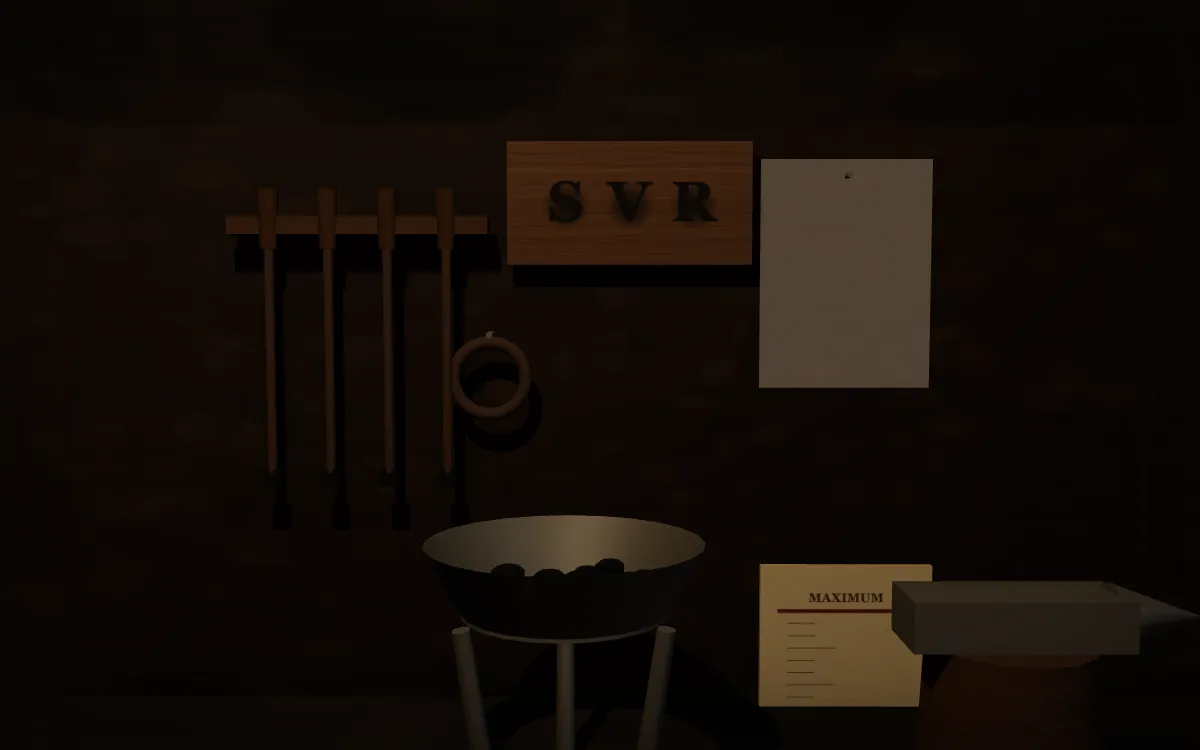
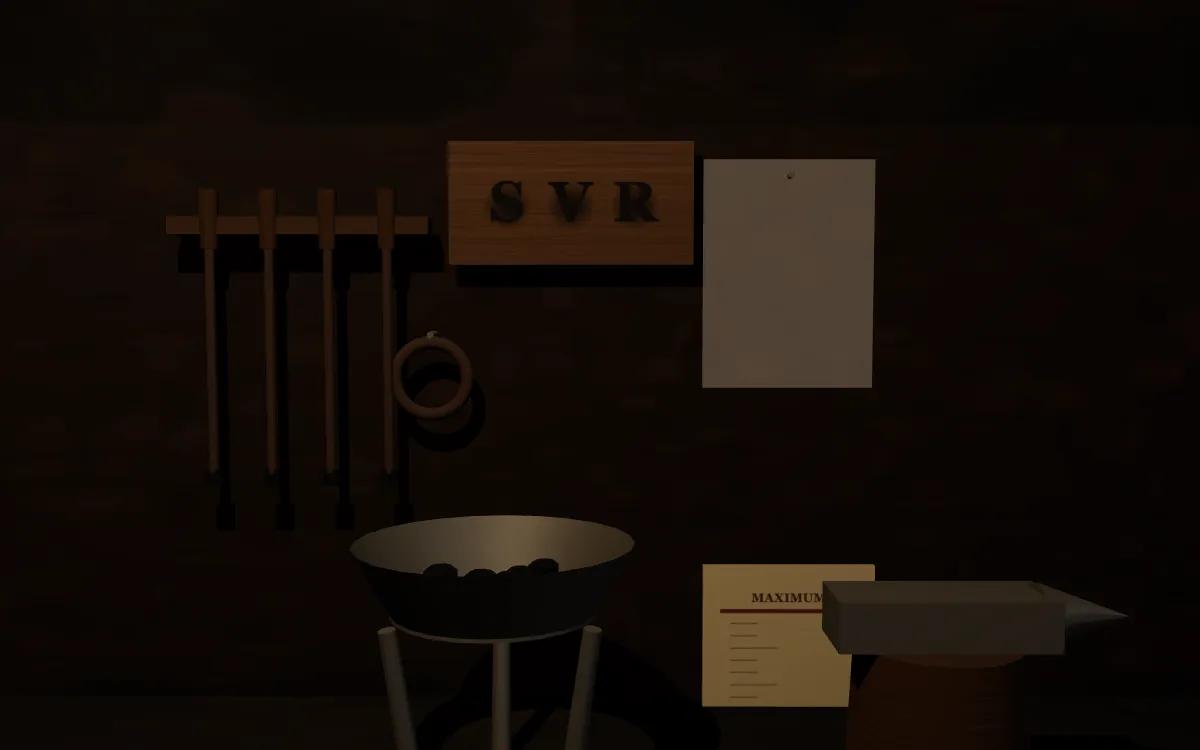
Glossaire : legislation-sanglante réécrite selon la charte, direction artistique « la charrette et le tarif »

diff --git a/glossaire/mondes/legislation-sanglante/essai.html b/glossaire/mondes/legislation-sanglante/essai.html
@@ -1,45 +1,78 @@
-<!-- L'ESSAI - le corps de /glossaire/legislation-sanglante.
-     data-s="8" = huitieme section de Roy (ch. XXVI-XXXIII), dont le
-     chapitre XXVIII porte ce titre. -->
+<!-- L'ESSAI : le corps de /glossaire/legislation-sanglante.
+     Fragment HTML, assemblé par tools/gen-seo.mjs dans le gabarit des pages
+     de notion (avec meta.json pour la tête, l'appareil et le monde).
+     Réécrit en octobre 2026 selon glossaire/mondes/CHARTE.md.
+     data-s="8" = huitième section de Roy (chapitres XXVI à XXXIII), dont le
+     chapitre XXVIII porte ce titre. Chaque data-q est une phrase RELEVÉE dans
+     le texte que la liseuse sert, au caractère près : Roy compose à la
+     française, avec une espace insécable avant le point-virgule et dans les
+     guillemets. Ne rien « corriger ». -->
 
 <section class="nt-sec" data-etape="fait" id="fait">
-<h2>Un décalage, et ce qu'on en fit</h2>
-<p>Le chapitre XXVIII s'ouvre sur un fait de rythme, et tout le reste en découle. L'expropriation des campagnes jeta sur les routes plus d'hommes que les manufactures naissantes n'en pouvaient absorber&nbsp;: <q data-s="8" data-q="La création du prolétariat sans feu ni lieu">La création du prolétariat sans feu ni lieu</q>, écrit Marx, <q data-s="8" data-q="allait nécessairement plus vite que son absorption par les manufactures naissantes">allait nécessairement plus vite que son absorption par les manufactures naissantes</q>. Il en sortit une masse de mendiants, de voleurs et de vagabonds — non par un vice de leur caractère, mais par l'écart entre deux vitesses.</p>
-<p>Ce que fit la loi devant ce décalage est la seule chose qui importe ici, et Marx l'énonce en une phrase qui vaut analyse&nbsp;: <q data-s="8" data-q="La législation les traita en criminels volontaires ; elle supposa qu’il dépendait de leur libre arbitre de continuer à travailler comme par le passé et comme s’il n’était survenu aucun changement dans leur condition">La législation les traita en criminels volontaires ; elle supposa qu'il dépendait de leur libre arbitre de continuer à travailler comme par le passé et comme s'il n'était survenu aucun changement dans leur condition</q>. Le vagabondage est traité comme un refus, alors qu'il est un effet&nbsp;; l'homme sans place est puni de ne pas occuper une place qu'on lui a retirée.</p>
-<p>Marx fait suivre ce constat d'une remarque qui replace le lecteur du dix-neuvième siècle dans la filiation, et qu'il ne faut pas lire comme une flèche mais comme une donnée&nbsp;: <q data-s="8" data-q="Les pères de la classe ouvrière actuelle furent châtiés d’avoir été réduits à l’état de vagabonds et de pauvres">Les pères de la classe ouvrière actuelle furent châtiés d'avoir été réduits à l'état de vagabonds et de pauvres</q>. Ce sont les mêmes gens, à quelques générations près, qui sont expropriés puis punis de l'être, puis employés.</p>
+<h2>Pourquoi la loi s'en prend-elle aux vagabonds à la fin du quinzième siècle&nbsp;?</h2>
+<p class="nt-lead">Parce que l'expropriation des campagnes a jeté sur les routes plus d'hommes que les manufactures ne pouvaient en employer. La loi a traité cet effet comme une faute.</p>
+<p>Le chapitre XXVIII fait suite à celui qui raconte comment les paysans anglais ont perdu leur terre. Marx y part d'un écart entre deux vitesses. D'un côté, les seigneurs licencient leurs suites et les clôtures chassent les cultivateurs&nbsp;; de l'autre, les manufactures naissantes n'embauchent que lentement. <q data-s="8" data-q="La création du prolétariat sans feu ni lieu">La création du prolétariat sans feu ni lieu</q>, écrit-il, <q data-s="8" data-q="allait nécessairement plus vite que son absorption par les manufactures naissantes">allait nécessairement plus vite que son absorption par les manufactures naissantes</q>. Il ajoute une seconde raison, qui tient aux habitudes&nbsp;: des hommes arrachés d'un coup à leur vie ne pouvaient pas se plier du jour au lendemain à la discipline d'un ordre nouveau. Il en sortit des mendiants, des voleurs, des vagabonds.</p>
+<p>Devant ces hommes, la loi aurait pu voir ce qui leur était arrivé. Elle a fait l'inverse, et Marx résume le geste en une phrase&nbsp;:</p>
+<blockquote data-s="8" data-q="La législation les traita en criminels volontaires ; elle supposa qu’il dépendait de leur libre arbitre de continuer à travailler comme par le passé et comme s’il n’était survenu aucun changement dans leur condition"><p>La législation les traita en criminels volontaires&nbsp;; elle supposa qu’il dépendait de leur libre arbitre de continuer à travailler comme par le passé et comme s’il n’était survenu aucun changement dans leur condition.</p></blockquote>
+<p>Le vagabond est puni d'avoir choisi l'errance, alors que l'errance lui a été imposée&nbsp;; on lui reproche de ne pas occuper une place qu'on vient de lui retirer. Marx rappelle aussi de qui il parle. <q data-s="8" data-q="Les pères de la classe ouvrière actuelle furent châtiés d’avoir été réduits à l’état de vagabonds et de pauvres">Les pères de la classe ouvrière actuelle furent châtiés d’avoir été réduits à l’état de vagabonds et de pauvres</q>&nbsp;: les ouvriers des fabriques de 1867 descendent de ces hommes-là. Le nom de la notion vient du titre du chapitre. Roy écrit «&nbsp;législation sanguinaire contre les expropriés&nbsp;», l'allemand dit <i lang="de">Blutgesetzgebung</i>, la législation de sang. Dans l'original allemand, ces pages forment la troisième partie du chapitre 24.</p>
 </section>
 
 <section class="nt-sec" data-etape="distinction" id="distinction">
-<h2>La distinction qui fait le concept&nbsp;: dresser n'est pas punir</h2>
-<p>Ces lois ne sont pas un droit pénal ordinaire, et c'est ce qui les rend intelligibles. Un droit pénal réprime un acte&nbsp;; celui-ci fabrique une disposition. Marx le dit en une formule qui contient tout le chapitre&nbsp;: la population des campagnes, violemment expropriée et réduite au vagabondage, <q data-s="8" data-q="a été rompue à la discipline qu’exige le système du salariat par des lois d’un terrorisme grotesque, par le fouet, la marque au fer rouge, la torture et l’esclavage">a été rompue à la discipline qu'exige le système du salariat par des lois d'un terrorisme grotesque, par le fouet, la marque au fer rouge, la torture et l'esclavage</q>.</p>
-<p>Le mot <i>rompue</i> est celui du dressage, et l'énumération des statuts en donne la progression. Sous Henri&nbsp;VIII, le vagabond robuste est fouetté puis renvoyé à son lieu de naissance pour <q data-s="8" data-q="se remettre au travail">se remettre au travail</q>&nbsp;; à la première récidive on lui coupe la moitié de l'oreille, à la seconde il est traité en félon. Un statut d'Édouard&nbsp;VI, en 1547, <q data-s="8" data-q="ordonne que tout individu réfractaire au travail sera adjugé pour esclave à la personne qui l’aura dénoncé comme truand">ordonne que tout individu réfractaire au travail sera adjugé pour esclave à la personne qui l'aura dénoncé comme truand</q>, avec la lettre marquée au fer sur la joue ou sur la poitrine. Sous Élisabeth, les mendiants sans permis sont marqués à l'oreille <q data-s="8" data-q="si personne ne veut les prendre en service pendant deux ans">si personne ne veut les prendre en service pendant deux ans</q>. Sous Jacques&nbsp;I encore, le coureur de pays rétif est marqué d'un R sur l'épaule gauche — et Marx note la date de l'abrogation, qui n'a rien d'un détail&nbsp;: <q data-s="8" data-q="Ces statuts ne furent abolis qu’en 1714">Ces statuts ne furent abolis qu'en 1714</q>.</p>
-<p>On aperçoit dans ces clauses ce que le pénal seul n'expliquerait pas. La peine est chaque fois indexée sur l'emploi&nbsp;: elle tombe si personne ne veut prendre l'homme à son service, elle s'efface s'il trouve un maître. Ce n'est pas la mendicité qu'on châtie, c'est la disponibilité qu'on impose.</p>
+<h2>Que punissent ces lois, au juste&nbsp;?</h2>
+<p class="nt-lead">Elles punissent l'homme qui n'a pas de maître. La peine tombe quand personne ne veut l'employer et s'efface dès qu'il en trouve un&nbsp;: ces lois dressent au salariat.</p>
+<p>Marx énumère les statuts anglais règne par règne, et la liste a un ordre. Sous Henri&nbsp;VIII, en 1530, les vieillards et les infirmes reçoivent une licence pour mendier. Les vagabonds robustes, eux, sont attachés derrière une charrette et fouettés jusqu'au sang, puis ils doivent jurer de retourner à leur lieu de naissance pour <q data-s="8" data-q="se remettre au travail">se remettre au travail</q>. Le Parlement aggrave ensuite les peines&nbsp;: à la première récidive, on coupe la moitié de l'oreille, à la seconde on exécute le vagabond comme félon. Sous Élisabeth, en 1572, les mendiants sans permis sont fouettés et marqués à l'oreille gauche <q data-s="8" data-q="si personne ne veut les prendre en service pendant deux ans">si personne ne veut les prendre en service pendant deux ans</q>. Sous Jacques&nbsp;Ier, les coureurs de pays jugés dangereux sont marqués d'un R sur l'épaule gauche. Et Marx donne une date que l'on retient mal&nbsp;: <q data-s="8" data-q="Ces statuts ne furent abolis qu’en 1714">ces statuts ne furent abolis qu’en 1714</q>.</p>
+<div class="nt-ex">
+<p class="nt-ex-t">L'exemple de Marx&nbsp;: le statut de 1547</p>
+<p>Le statut de la première année d'Édouard&nbsp;VI <q data-s="8" data-q="ordonne que tout individu réfractaire au travail sera adjugé pour esclave à la personne qui l’aura dénoncé comme truand">ordonne que tout individu réfractaire au travail sera adjugé pour esclave à la personne qui l’aura dénoncé comme truand</q>. Marx glose entre parenthèses&nbsp;: <q data-s="8" data-q="Ainsi, pour avoir à son profit le travail d’un pauvre diable, on n’avait qu’à le dénoncer comme réfractaire au travail.">ainsi, pour avoir à son profit le travail d’un pauvre diable, on n’avait qu’à le dénoncer comme réfractaire au travail.</q> L'esclave en fuite pendant quinze jours est marqué d'un S sur la joue et le front&nbsp;; le vagabond repris porte un V sur la poitrine et travaille enchaîné sur les places de son lieu de naissance. Le maître peut lui passer <q data-s="8" data-q="un anneau de fer autour du cou, des bras ou des jambes">un anneau de fer autour du cou, des bras ou des jambes</q>.</p>
+<p>Relisez la clause qui ouvre le statut. Celui qui dénonce le vagabond reçoit son travail&nbsp;: la sanction consiste à donner un maître à celui qui n'en avait pas. La peine et l'embauche sont une seule et même opération.</p>
+</div>
+<p>On voit alors pourquoi ces lois échappent au droit pénal ordinaire. Un code pénal réprime un acte, le vol ou le meurtre. Ici, la faute est un état&nbsp;: être valide, sans ressources et sans employeur. Marx ramasse l'ensemble dans une phrase où chaque mot porte. La population des campagnes <q data-s="8" data-q="a été rompue à la discipline qu’exige le système du salariat par des lois d’un terrorisme grotesque, par le fouet, la marque au fer rouge, la torture et l’esclavage">a été rompue à la discipline qu’exige le système du salariat par des lois d’un terrorisme grotesque, par le fouet, la marque au fer rouge, la torture et l’esclavage</q>. Rompre est le mot du dressage, celui qu'on emploie pour un cheval. Le chapitre ne s'arrête pas à l'Angleterre&nbsp;: il cite des lois semblables pour les Pays-Bas de Charles Quint en 1537, pour la Hollande en 1614, et pour la France, où une ordonnance du 13 juillet 1777 envoie encore aux galères l'homme valide de seize à soixante ans trouvé sans moyens d'existence.</p>
 </section>
 
 <section class="nt-sec" data-etape="mecanisme" id="mecanisme">
-<h2>Le mécanisme&nbsp;: un plafond, et pas de plancher</h2>
-<p>Au même moment, une seconde série de lois s'occupe non plus des sans-place mais de ceux qui ont trouvé une place, et c'est la législation sur les salaires. Elle commence en 1349 avec le <i>Statute of Labourers</i>, promulgué <q data-s="8" data-q="sur les instances pressantes de la Chambre des Communes, c’est-à-dire des acheteurs de travail">sur les instances pressantes de la Chambre des Communes, c'est-à-dire des acheteurs de travail</q>, et son économie se lit dans une asymétrie que Marx relève avec une précision d'horloger&nbsp;: <q data-s="8" data-q="l’on y fixe un maximum légal au-dessus duquel le salaire ne doit point monter, mais que l’on se garde bien de prescrire un minimum légal au-dessous duquel il ne devrait pas tomber">l'on y fixe un maximum légal au-dessus duquel le salaire ne doit point monter, mais que l'on se garde bien de prescrire un minimum légal au-dessous duquel il ne devrait pas tomber</q>.</p>
-<p>L'asymétrie se retrouve jusque dans le barème des peines, et elle y est cocasse à force d'être franche&nbsp;: le statut d'Élisabeth punit de dix jours de prison le patron qui paie un trop fort salaire et de vingt et un jours l'ouvrier qui l'accepte. Marx en tire la formule&nbsp;: <q data-s="8" data-q="on traite en cas de contravention le patron en compère et l’ouvrier en rebelle">on traite en cas de contravention le patron en compère et l'ouvrier en rebelle</q>. Une même infraction, deux peines&nbsp;: l'une pour une faiblesse, l'autre pour une insubordination.</p>
-<p>Le dispositif est complété par l'interdiction de s'entendre. Tous les engagements réciproques entre ouvriers sont déclarés nuls, et <q data-s="8" data-q="Les coalitions ouvrières furent mises au rang des plus grands crimes, et y restèrent depuis le quatorzième siècle jusqu’en 1824">Les coalitions ouvrières furent mises au rang des plus grands crimes, et y restèrent depuis le quatorzième siècle jusqu'en 1824</q>. Il faut mesurer la durée&nbsp;: quatre siècles et demi pendant lesquels le vendeur de force de travail est légalement tenu de se présenter seul devant l'acheteur. La liberté du contrat, dont l'échange entre capital et travail tire toute son apparence d'équité, est ici visiblement construite d'un côté seulement.</p>
+<h2>Comment la loi règle-t-elle le salaire&nbsp;?</h2>
+<p class="nt-lead">Par un maximum sans minimum, et par l'interdiction de s'unir. Le vendeur de travail doit se présenter seul, et il ne peut pas demander plus que le tarif.</p>
+<p>Une seconde série de lois vise ceux qui ont trouvé une place. Elle commence en Angleterre en 1349 avec le <i>Statute of Labourers</i> d'Édouard&nbsp;III, promulgué <q data-s="8" data-q="sur les instances pressantes de la Chambre des Communes, c’est-à-dire des acheteurs de travail">sur les instances pressantes de la Chambre des Communes, c’est-à-dire des acheteurs de travail</q>, et en France l'année suivante avec une ordonnance du roi Jean. Ce statut établit un tarif légal des salaires, à la journée comme à la tâche. Marx en dégage le principe&nbsp;:</p>
+<blockquote data-s="8" data-q="l’on y fixe un maximum légal au-dessus duquel le salaire ne doit point monter, mais que l’on se garde bien de prescrire un minimum légal au-dessous duquel il ne devrait pas tomber"><p>L’esprit du statut de 1349, et de ceux auxquels il servit de modèle, éclate surtout en ceci que l’on y fixe un maximum légal au-dessus duquel le salaire ne doit point monter, mais que l’on se garde bien de prescrire un minimum légal au-dessous duquel il ne devrait pas tomber.</p></blockquote>
+<p>Les peines confirment le sens de la règle. Le statut d'apprentissage d'Élisabeth punit de dix jours de prison le patron qui paie un salaire trop fort, et de vingt et un jours l'ouvrier qui l'accepte. La même infraction coûte deux fois plus cher à celui qui en profite le moins, et Marx en tire une formule&nbsp;: <q data-s="8" data-q="on traite en cas de contravention le patron en compère et l’ouvrier en rebelle">on traite en cas de contravention le patron en compère et l’ouvrier en rebelle</q>. Il note aussi qui applique ces lois. Les juges de paix chargés de fixer les salaires sont des propriétaires fonciers, des manufacturiers et des pasteurs, c'est-à-dire des acheteurs de travail.</p>
+<p>Le dispositif se ferme par l'interdiction de s'entendre. Un statut déclare nuls les engagements que maçons et charpentiers prenaient entre eux, et <q data-s="8" data-q="Les coalitions ouvrières furent mises au rang des plus grands crimes, et y restèrent depuis le quatorzième siècle jusqu’en 1824">les coalitions ouvrières furent mises au rang des plus grands crimes, et y restèrent depuis le quatorzième siècle jusqu’en 1824</q>. Pendant près de cinq siècles, l'ouvrier anglais est donc tenu de négocier seul face à un acheteur qui, lui, a la loi pour allié. La France révolutionnaire suit la même pente. Par la loi Le Chapelier, votée le 14 juin 1791, <q data-s="8" data-q="tout concert entre les travailleurs pour la défense de leurs intérêts communs fut stigmatisé d’attentat">tout concert entre les travailleurs pour la défense de leurs intérêts communs fut stigmatisé d’attentat</q> contre la liberté et les droits de l'homme. Marx souligne l'ironie du motif&nbsp;: on interdit aux ouvriers de s'unir au nom de la liberté des entrepreneurs.</p>
+<div data-planche="chapelier"></div>
 </section>
 
 <section class="nt-sec" data-etape="portee" id="portee">
-<h2>Ce que le concept établit&nbsp;: l'État au commencement</h2>
-<p>La portée de ce chapitre tient à ce qu'il refuse une image commode, celle d'un marché qui se serait formé tout seul et qu'un État serait venu ensuite déranger. Marx établit l'inverse, et il le pose comme une nécessité et non comme un accident&nbsp;: <q data-s="8" data-q="La bourgeoisie naissante ne saurait se passer de l’intervention constante de l’État ; elle s’en sert pour « régler » le salaire">La bourgeoisie naissante ne saurait se passer de l'intervention constante de l'État ; elle s'en sert pour « régler » le salaire</q>, c'est-à-dire pour le déprimer au niveau convenable, pour prolonger la journée de travail et maintenir le travailleur au degré de dépendance voulu. Et il conclut&nbsp;: <q data-s="8" data-q="C’est là un moment essentiel de l’accumulation primitive">C'est là un moment essentiel de l'accumulation primitive</q>.</p>
-<p>La raison de cette nécessité est donnée quelques lignes plus haut, et elle est d'ordre technique autant que politique. Au quatorzième et au quinzième siècle, la subordination du travail au capital <q data-s="8" data-q="n’était que dans la forme">n'était que dans la forme</q>&nbsp;: le mode de production n'avait encore rien de spécifiquement capitaliste, la part variable du capital l'emportait de beaucoup sur sa part constante, et la demande de travail croissait plus vite que l'offre. Autrement dit, le rapport de forces économique jouait <i>contre</i> l'acheteur de travail — et c'est précisément quand il joue contre lui que l'État est indispensable.</p>
-<p>On tient là le principe qui commande la suite. La contrainte juridique et la contrainte économique ne s'additionnent pas&nbsp;: elles se relaient. Là où le mécanisme économique ne produit pas encore la dépendance, la loi la produit&nbsp;; là où le mécanisme la produit, la loi devient superflue. C'est ce que la <a href="/glossaire/armee-de-reserve">surpopulation relative</a> viendra assurer, et c'est pourquoi ce chapitre et le chapitre XXV se répondent d'un bout à l'autre du livre.</p>
+<h2>Pourquoi le capital naissant a-t-il besoin de l'État&nbsp;?</h2>
+<p class="nt-lead">Parce que l'économie ne produit pas encore à elle seule la dépendance du travailleur. Tant que les bras manquent, l'État fait ce que le marché ne fait pas.</p>
+<p>On se représente volontiers un marché du travail né de lui-même, que l'État serait venu ensuite gêner. Le chapitre établit l'inverse, et Marx le pose sans détour&nbsp;:</p>
+<blockquote data-s="8" data-q="La bourgeoisie naissante ne saurait se passer de l’intervention constante de l’État ; elle s’en sert pour « régler » le salaire"><p>La bourgeoisie naissante ne saurait se passer de l’intervention constante de l’État&nbsp;; elle s’en sert pour «&nbsp;régler&nbsp;» le salaire, c’est-à-dire pour le déprimer au niveau convenable, pour prolonger la journée de travail et maintenir le travailleur lui-même au degré de dépendance voulu.</p></blockquote>
+<p>Il conclut que <q data-s="8" data-q="C’est là un moment essentiel de l’accumulation primitive">c’est là un moment essentiel de l’accumulation primitive</q>. L'<a href="/glossaire/accumulation-primitive">accumulation primitive</a> désigne chez Marx le processus historique qui sépare les producteurs de leurs moyens de production. Le chapitre précédent montrait comment on leur prend la terre&nbsp;; celui-ci montre comment on fait d'eux des salariés.</p>
+<p>La raison de cette dépendance envers l'État tient à l'état de la production. Aux quatorzième et quinzième siècles, les salariés forment une faible part de la population, protégée par les paysans indépendants et par les corporations. Les techniques n'ont encore rien de capitaliste, si bien que <q data-s="8" data-q="la subordination du travail au capital n’était que dans la forme">la subordination du travail au capital n’était que dans la forme</q>&nbsp;: le capitaliste achète le travail sans avoir transformé la manière de travailler. La part du capital consacrée aux salaires l'emporte sur celle des machines et des matières, et la demande de travail croît plus vite que l'offre. Le rapport de forces économique joue donc pour le travailleur. C'est dans cette situation que l'acheteur a besoin d'un tarif imposé par la loi et d'un fouet.</p>
+<p>On tient là le principe du chapitre. La contrainte juridique et la contrainte économique se relaient. La loi produit la dépendance aussi longtemps que le mécanisme économique ne la produit pas. Elle devient inutile quand il s'en charge.</p>
 </section>
 
 <section class="nt-sec" data-etape="ouvre" id="ouvre">
-<h2>Ce que le concept ouvre&nbsp;: le passage de relais</h2>
-<p>Le passage le plus important du chapitre est aussi le plus calme, et il décrit une relève. Marx commence par écarter deux conditions qu'on pourrait croire suffisantes&nbsp;: <q data-s="8" data-q="Ce n’est pas assez que d’un côté se présentent les conditions matérielles du travail, sous forme de capital, et de l’autre des hommes qui n’ont rien à vendre, sauf leur puissance de travail">Ce n'est pas assez que d'un côté se présentent les conditions matérielles du travail, sous forme de capital, et de l'autre des hommes qui n'ont rien à vendre, sauf leur puissance de travail</q>, et <q data-s="8" data-q="Il ne suffit pas non plus qu’on les contraigne par la force à se vendre volontairement">Il ne suffit pas non plus qu'on les contraigne par la force à se vendre volontairement</q>. Il faut encore autre chose, et cette autre chose est du temps.</p>
-<p>Ce qui vient avec le temps, c'est une accoutumance&nbsp;: <q data-s="8" data-q="il se forme une classe de plus en plus nombreuse de travailleurs, qui, grâce à l’éducation, la tradition, l’habitude, subissent les exigences du régime aussi spontanément que le changement des saisons">il se forme une classe de plus en plus nombreuse de travailleurs, qui, grâce à l'éducation, la tradition, l'habitude, subissent les exigences du régime aussi spontanément que le changement des saisons</q>. Dès lors le dispositif de contrainte peut être démonté, parce que le mécanisme économique fait le même travail&nbsp;: la présence constante d'une surpopulation relative maintient le salaire dans les limites convenables, et <q data-s="8" data-q="la sourde pression des rapports économiques achève le despotisme du capitaliste sur le travailleur">la sourde pression des rapports économiques achève le despotisme du capitaliste sur le travailleur</q>.</p>
-<p>Le fer rouge devient alors une pièce d'arsenal qu'on garde sans s'en servir&nbsp;: <q data-s="8" data-q="Parfois on a bien encore recours à la contrainte, à l’emploi de la force brutale, mais ce n’est que par exception">Parfois on a bien encore recours à la contrainte, à l'emploi de la force brutale, mais ce n'est que par exception</q>. Le régime ordinaire est décrit par une phrase dont chaque mot compte&nbsp;: <q data-s="8" data-q="Dans le cours ordinaire des choses, le travailleur peut être abandonné à l’action des « lois naturelles » de la société">Dans le cours ordinaire des choses, le travailleur peut être abandonné à l'action des « lois naturelles » de la société</q>, c'est-à-dire à la dépendance du capital, <q data-s="8" data-q="engendrée, garantie et perpétuée par le mécanisme même de la production">engendrée, garantie et perpétuée par le mécanisme même de la production</q>. Ce qu'on appelle les lois naturelles de l'économie est donc le résultat d'un dressage historique, dont ce chapitre tient le registre.</p>
+<h2>Qu'est-ce qui a remplacé le fouet&nbsp;?</h2>
+<p class="nt-lead">L'habitude et la pression des rapports économiques. Une fois le capitalisme installé, une réserve de chômeurs maintient le salaire bas sans qu'il faille un bourreau.</p>
+<p>Marx commence par écarter deux conditions qu'on croirait suffisantes. Il ne suffit pas que le capital soit d'un côté et, de l'autre, des hommes qui n'ont que leur force de travail à vendre. <q data-s="8" data-q="Il ne suffit pas non plus qu’on les contraigne par la force à se vendre volontairement">Il ne suffit pas non plus qu’on les contraigne par la force à se vendre volontairement</q>. Il faut encore du temps, au bout duquel se forme une classe de travailleurs <q data-s="8" data-q="qui, grâce à l’éducation, la tradition, l’habitude, subissent les exigences du régime aussi spontanément que le changement des saisons">qui, grâce à l’éducation, la tradition, l’habitude, subissent les exigences du régime aussi spontanément que le changement des saisons</q>.</p>
+<p>Le mécanisme économique prend alors le relais. <q data-s="8" data-q="la présence constante d’une surpopulation relative maintient la loi de l’offre et la demande du travail">La présence constante d’une surpopulation relative maintient la loi de l’offre et la demande du travail</q> dans les limites qui conviennent au capital. Cette surpopulation, Marx l'a étudiée au chapitre XXV sous le nom d'<a href="/glossaire/armee-de-reserve">armée de réserve</a>&nbsp;: les chômeurs que l'accumulation elle-même rejette et qui pèsent sur le salaire de ceux qui travaillent. Le chapitre XXVIII les relie dans la même phrase&nbsp;: la sourde pression des rapports économiques <q data-s="8" data-q="la sourde pression des rapports économiques achève le despotisme du capitaliste sur le travailleur">achève le despotisme du capitaliste sur le travailleur</q>. Sourde, parce que personne ne l'exerce en personne.</p>
+<blockquote data-s="8" data-q="Dans le cours ordinaire des choses, le travailleur peut être abandonné à l’action des « lois naturelles » de la société"><p>Parfois on a bien encore recours à la contrainte, à l’emploi de la force brutale, mais ce n’est que par exception. Dans le cours ordinaire des choses, le travailleur peut être abandonné à l’action des «&nbsp;lois naturelles&nbsp;» de la société, c’est-à-dire à la dépendance du capital, engendrée, garantie et perpétuée par le mécanisme même de la production.</p></blockquote>
+<p>Les guillemets de Marx autour de «&nbsp;lois naturelles&nbsp;» comptent. Ce que l'économie de son temps présente comme une nature est le résultat de trois siècles de dressage. Les dates du chapitre le confirment. En 1796, la Chambre des communes, qui fixait depuis quatre siècles un plafond aux salaires, entend Whitbread proposer un minimum pour les ouvriers agricoles&nbsp;; la proposition est repoussée. En 1813, les lois sur la fixation des salaires sont abolies, devenues une anomalie à une époque où le fabricant règle lui-même ses ouvriers par ses règlements de fabrique. Et <q data-s="8" data-q="Les lois atroces contre les coalitions tombèrent en 1825 devant l’attitude menaçante du prolétariat">les lois atroces contre les coalitions tombèrent en 1825 devant l’attitude menaçante du prolétariat</q>.</p>
 </section>
 
 <section class="nt-sec" data-etape="lectures" id="lectures">
-<h2>Lectures et contresens</h2>
-<p>Le premier contresens consiste à lire ce chapitre comme un morceau d'indignation, un catalogue d'atrocités destiné à émouvoir. L'énumération des statuts est pourtant une démonstration, et son ordre le prouve&nbsp;: elle est chronologique et croissante, et elle sert à établir une chose précise — qu'il a fallu un demi-siècle de peines aggravées pour obtenir une disposition qui, deux siècles plus tard, s'obtiendra sans une menace. Le fouet n'est pas là pour faire frémir, il est là pour être comparé à ce qui le remplace.</p>
-<p>Le second contresens est plus tentaculaire et il vaut d'être nommé pour ce qu'il est&nbsp;: c'est celui qui conclut de ce chapitre que la contrainte serait passée, et le rapport devenu libre. Le texte dit exactement le contraire — la contrainte n'a pas cessé, elle a changé d'organe. Nous nous rangeons ici à la lecture la plus littérale&nbsp;: ce que Marx appelle la sourde pression des rapports économiques est une contrainte au sens plein, seulement elle ne demande plus d'exécuteur, et c'est ce qui la rend invisible et la fait passer pour une loi de la nature. La <a href="/glossaire/forme-salaire">forme-salaire</a> achève l'opération en présentant comme payée la totalité de la journée.</p>
-<p>Reste une question que le chapitre ne tranche pas et qu'il serait malhonnête de trancher à sa place. Si l'intervention de l'État est nécessaire tant que le mécanisme économique ne suffit pas, que faut-il conclure des périodes où ce mécanisme se dérègle&nbsp;? Marx note seulement qu'on fut <q data-s="8" data-q="bien aise d’avoir sous la main, pour des cas imprévus, le vieil arsenal d’oukases">bien aise d'avoir sous la main, pour des cas imprévus, le vieil arsenal d'oukases</q> — l'arsenal est conservé, non détruit. C'est une observation, non une prédiction, et elle suffit à interdire de lire le passage de relais comme irréversible. On lira à sa suite l'<a href="/glossaire/accumulation-primitive">accumulation primitive</a>, dont ce chapitre est le second volet, et la <a href="/glossaire/legislation-de-fabrique">législation de fabrique</a>, qui montre l'État revenir trois siècles plus tard, et dans l'autre sens.</p>
+<h2>Comment lire ce chapitre, et quels contresens éviter&nbsp;?</h2>
+<p class="nt-lead">Il se lit comme une démonstration sur le rôle de l'État dans la naissance du salariat. On le prend souvent pour un réquisitoire, pour une histoire close ou pour une curiosité anglaise.</p>
+<p>Le chapitre ne laisse pas l'État au passé. Les dispositions qui ouvrent l'action civile contre le patron qui rompt un contrat, et l'action criminelle contre l'ouvrier, sont <q data-s="8" data-q="encore aujourd’hui en vigueur">encore aujourd’hui en vigueur</q> quand Marx écrit. La loi de 1871 qui reconnaît les syndicats est doublée, le même jour, d'une loi pénale qui rétablit les anciennes interdictions sous une autre forme. Marx en tire son jugement sur le Parlement anglais, qui a <q data-s="8" data-q="fait pendant cinq siècles l’office d’une Trade Union permanente des capitalistes contre les travailleurs">fait pendant cinq siècles l’office d’une Trade Union permanente des capitalistes contre les travailleurs</q>.</p>
+<p>Une question reste ouverte, et le texte ne la tranche pas. Si l'État est indispensable tant que l'économie ne suffit pas, que se passe-t-il quand elle cesse de suffire&nbsp;? Marx observe seulement qu'une fois la réglementation des salaires devenue superflue, on était <q data-s="8" data-q="bien aise d’avoir sous la main, pour des cas imprévus, le vieil arsenal d’oukases">bien aise d’avoir sous la main, pour des cas imprévus, le vieil arsenal d’oukases</q>. L'arsenal est rangé, pas détruit. C'est une observation et non une prédiction, mais elle interdit de lire le passage de la contrainte légale à la contrainte économique comme définitif. La <a href="/glossaire/legislation-de-fabrique">législation de fabrique</a> montre d'ailleurs l'État revenir au dix-neuvième siècle, dans l'autre sens&nbsp;: pour limiter la journée de travail.</p>
+<div class="nt-cs">
+<p><span class="nt-cs-k">On lit souvent</span> Le chapitre serait un catalogue d'atrocités, destiné à indigner le lecteur contre le capitalisme.</p>
+<p><span class="nt-cs-k">Ce que dit le texte</span> L'énumération sert une comparaison. Il a fallu le fouet, la marque et l'esclavage pour obtenir des hommes une disposition que, trois siècles plus tard, l'habitude et le chômage obtiennent sans menace. Le fouet est là pour être comparé à ce qui l'a remplacé.</p>
+</div>
+<div class="nt-cs">
+<p><span class="nt-cs-k">On lit souvent</span> Une fois ces lois abolies, la contrainte aurait cessé et le contrat de travail serait devenu libre.</p>
+<p><span class="nt-cs-k">Ce que dit le texte</span> La contrainte a changé d'organe. Nous suivons ici la lettre du texte&nbsp;: la sourde pression des rapports économiques est une contrainte au sens plein, qui n'a plus besoin d'exécuteur. La <a href="/glossaire/forme-salaire">forme-salaire</a> achève de la rendre invisible en présentant la journée entière comme payée.</p>
+</div>
+<div class="nt-cs">
+<p><span class="nt-cs-k">On lit souvent</span> Il s'agirait d'une particularité anglaise, liée aux clôtures et aux Tudor.</p>
+<p><span class="nt-cs-k">Ce que dit le texte</span> Marx parle d'une législation qui couvre <q data-s="8" data-q="dans l’ouest de l’Europe">l’ouest de l’Europe</q>. Il cite les Pays-Bas, la Hollande, l'ordonnance française de 1777 et la loi Le Chapelier de 1791. S'il prend ses exemples en Angleterre, c'est qu'il l'a dit en ouvrant la section&nbsp;: l'expropriation des cultivateurs <q data-s="8" data-q="ne s’est encore accomplie d’une manière radicale qu’en Angleterre">ne s’est encore accomplie d’une manière radicale qu’en Angleterre</q>.</p>
+</div>
 </section>

diff --git a/glossaire/mondes/legislation-sanglante/monde.js b/glossaire/mondes/legislation-sanglante/monde.js
@@ -270,10 +270,13 @@ window.LM_MONDE = function (canvas) {
        haut : en PAYSAGE la hauteur vue vaut 0,69 fois la distance, en
        PORTRAIT la largeur en vaut 0,82, et c'est la première qui commande —
        il faut 1,70. La caméra recule un peu quand le mur se vide, pour que
-       le rectangle pâle et le clou soient dans le cadre avec le râtelier. */
+       le rectangle pâle et le clou soient dans le cadre avec le râtelier.
+       Octobre 2026 : la scène est une figure 16/10 en bas de page ; la visée
+       passe 0,10 plus à droite pour centrer l'ensemble (râtelier à gauche,
+       enclume à droite), qui penchait vers la droite du cadre. */
     var q = ss(0, 1, Math.min(1, G / 2.6));
     var d = lerp(1.50, 1.58, q) + st.decroche * 0.08;
-    var camA = V3(lerp(-0.10, -0.05, q), lerp(0.10, 0.18, q), -0.06);
+    var camA = V3(lerp(0.0, 0.05, q), lerp(0.10, 0.18, q), -0.06);
     camera.position.set(camA.x + 0.008 * Math.sin(T * 0.25), camA.y + 0.10 + 0.006 * Math.sin(T * 0.31), camA.z + d);
     camera.lookAt(camA);
     render();
